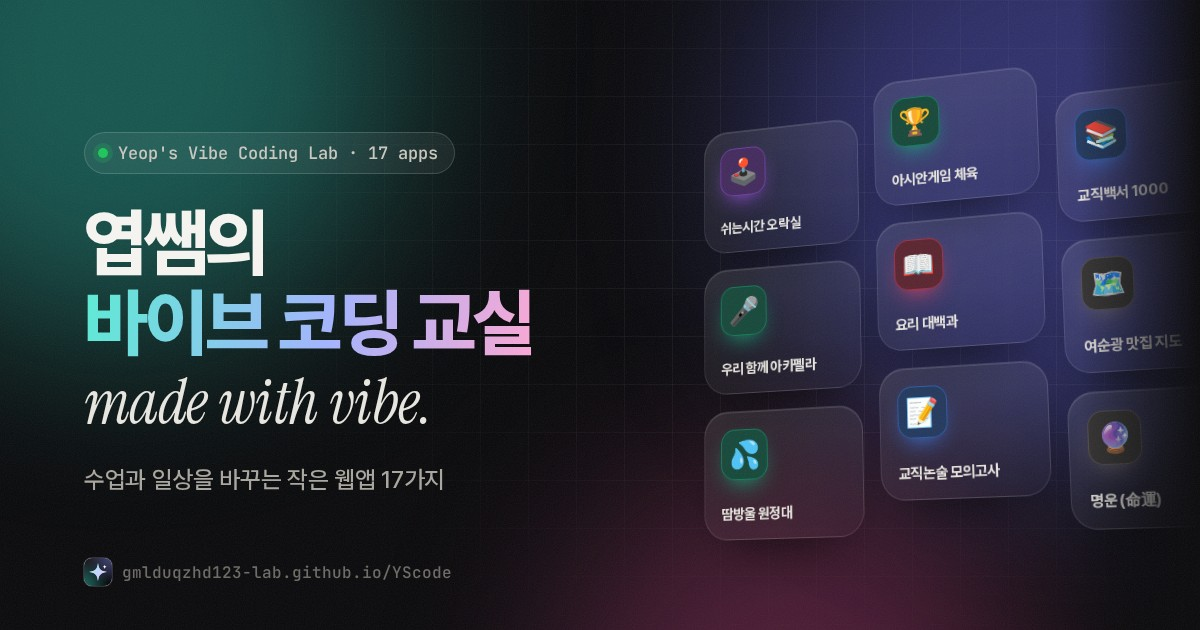
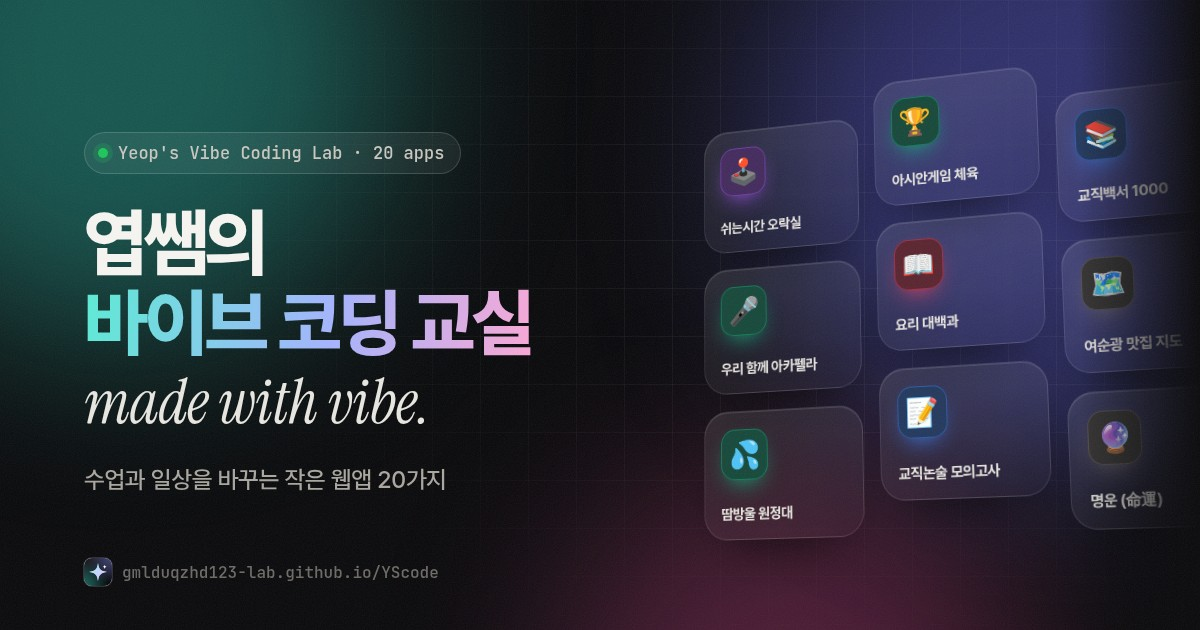
엽쌤의 패들렛 정리함 게시 (업무용, 총 20개) (#27)
- 업무용에 '엽쌤의 패들렛 정리함' 카드와 썸네일 추가
- 공유 문구·공유 이미지의 앱 수를 20개로 갱신 (공유 이미지는 17개로 남아 있던 것까지 정리)
- 썸네일 버전 20261009로 올림

Claude-Session: https://claude.ai/code/session_01NaW5r8WBzNy5B2e9iMgdZz

diff --git a/index.html b/index.html
@@ -16,14 +16,14 @@
     <meta name="apple-mobile-web-app-status-bar-style" content="black-translucent">
     <meta property="og:type" content="website">
     <meta property="og:title" content="엽쌤의 바이브 코딩 교실">
-    <meta property="og:description" content="수업과 일상을 바꾸는 작은 웹앱 19가지 · 설치 없이 바로 열려요">
+    <meta property="og:description" content="수업과 일상을 바꾸는 작은 웹앱 20가지 · 설치 없이 바로 열려요">
     <meta property="og:site_name" content="엽쌤스쿨">
     <meta property="og:image" content="https://gmlduqzhd123-lab.github.io/YScode/og-image.jpg">
     <meta property="og:image:secure_url" content="https://gmlduqzhd123-lab.github.io/YScode/og-image.jpg">
     <meta property="og:image:type" content="image/jpeg">
     <meta property="og:image:width" content="1200">
     <meta property="og:image:height" content="630">
-    <meta property="og:image:alt" content="엽쌤의 바이브 코딩 교실 — 웹앱 19가지">
+    <meta property="og:image:alt" content="엽쌤의 바이브 코딩 교실 — 웹앱 20가지">
     <meta property="og:url" content="https://gmlduqzhd123-lab.github.io/YScode/">
     <meta property="og:locale" content="ko_KR">
     <meta name="twitter:card" content="summary_large_image">
@@ -524,9 +524,9 @@
           </div>
           <div class="showcase" aria-hidden="true">
             <div class="showcase-inner">
-              <div class="shot s1"><img src="covers/for-teacher.jpg?v=20261005" alt="" width="1200" height="630"></div>
-              <div class="shot s3"><img src="covers/destiny.jpg?v=20261005" alt="" width="1200" height="630"></div>
-              <div class="shot s2"><img src="covers/asian-game.jpg?v=20261005" alt="" width="1200" height="630"></div>
+              <div class="shot s1"><img src="covers/for-teacher.jpg?v=20261009" alt="" width="1200" height="630"></div>
+              <div class="shot s3"><img src="covers/destiny.jpg?v=20261009" alt="" width="1200" height="630"></div>
+              <div class="shot s2"><img src="covers/asian-game.jpg?v=20261009" alt="" width="1200" height="630"></div>
             </div>
           </div>
         </section>
@@ -789,6 +789,16 @@
                 url: 'https://nicehelperys.vercel.app/'
             },
             {
+                id: 'padlet',
+                cover: 'covers/padlet.jpg',
+                accent: '#14b8a6',
+                name: '엽쌤의 패들렛 정리함',
+                category: '업무용',
+                icon: '📌',
+                desc: '패들렛 게시물과 첨부 파일을 한곳에 모아 정리하고 폴더·ZIP으로 저장하는 도구',
+                url: 'https://gmlduqzhd123-lab.github.io/padlet/'
+            },
+            {
                 id: 'hwp',
                 cover: 'covers/hwp.jpg',
                 accent: '#0ea5e9',
@@ -882,7 +892,7 @@
 
         // 관리자 모드에서 추가한 앱 (이 브라우저에만 저장)
         // 커버 이미지를 바꾸면 이 숫자를 올려 주세요. 주소가 바뀌어 휴대폰에 저장된 옛 이미지 대신 새 이미지를 받아요.
-        const COVER_VERSION = '20261005';
+        const COVER_VERSION = '20261009';
 
         const STORAGE_KEY = 'YEOP_VIBE_MY_APPS';
         let myApps = [];
